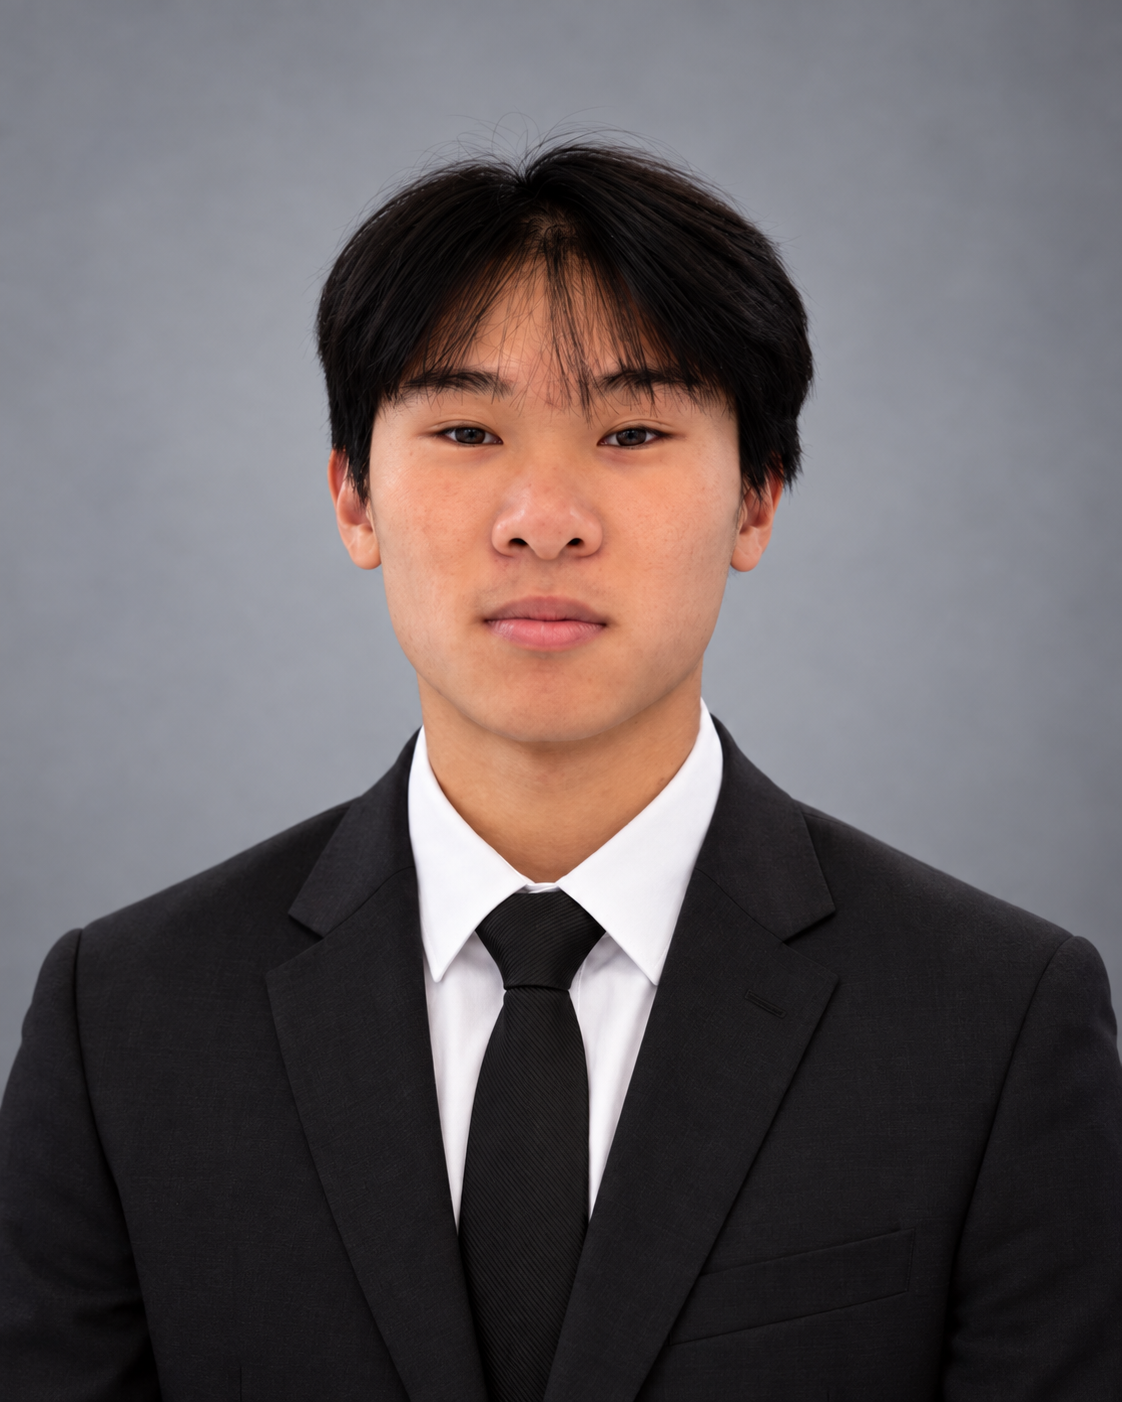
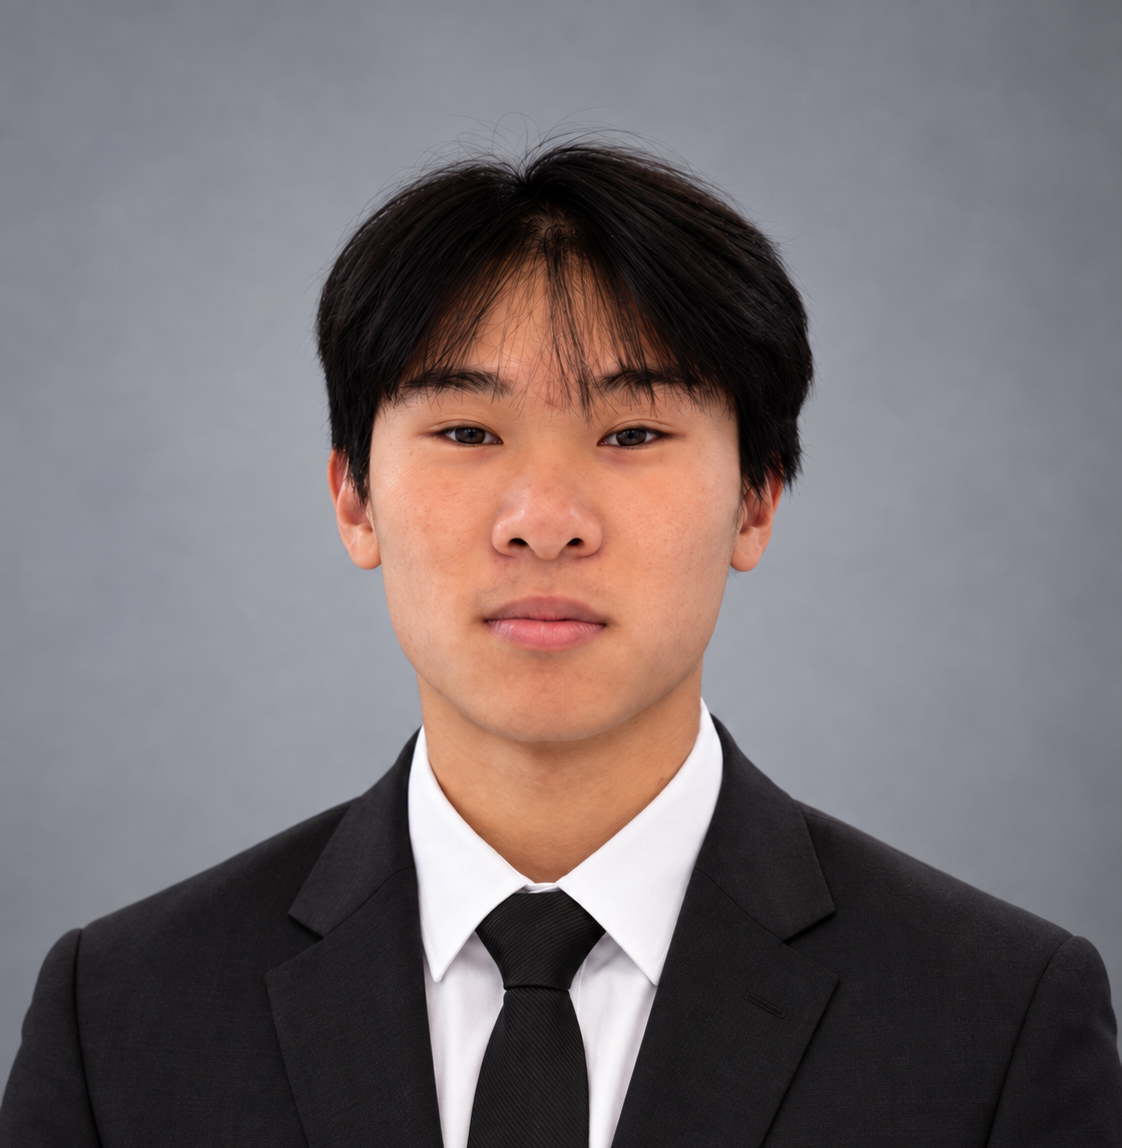
intro

Changed region(s): [[0.0, 0.0915, 1.0, 1.0], [0.8111, 0.8537, 0.8734, 1.0], [0.6863, 0.7927, 0.7487, 0.8232]]

diff --git a/index.html b/index.html
@@ -5,7 +5,8 @@
     <meta name="viewport" content="width=device-width, initial-scale=1.0">
     <title>Justin Shiu: Personal site and portfolio</title>
     <h1>Justin Shiu</h1>
-    <p>lorem ipsum dolor sit amet</p>
+    <p>Hi, I'm Justin. I'm currently a 4th year student at UC San Diego studying Data Science.</p>
+    <link rel="stylesheet" href="style.css">
 </head>
 <body>
     <img src="images/headshot.png" alt="Professional headshot of Justin Shiu" width="200">

diff --git a/projects/index.html b/projects/index.html
@@ -1,0 +1,12 @@
+<!DOCTYPE html>
+<html lang="en">
+<head>
+    <meta charset="UTF-8">
+    <meta name="viewport" content="width=device-width, initial-scale=1.0">
+    <title>My Projects</title>
+    <h1>My Projects</h1>
+</head>
+<body>
+    
+</body>
+</html>

diff --git a/contact/index.html b/contact/index.html
@@ -1,0 +1,12 @@
+<!DOCTYPE html>
+<html lang="en">
+<head>
+    <meta charset="UTF-8">
+    <meta name="viewport" content="width=device-width, initial-scale=1.0">
+    <title>Contact Me</title>
+    <h1>Contact Me</h1>
+</head>
+<body>
+    
+</body>
+</html>

diff --git a/style.css b/style.css
@@ -1,0 +1,6 @@
+body {
+  /* Set line height to 1.5 times the font size
+	   and use the OS’s UI font as the website font
+	 */
+  font: 100%/1.5 system-ui;
+}
